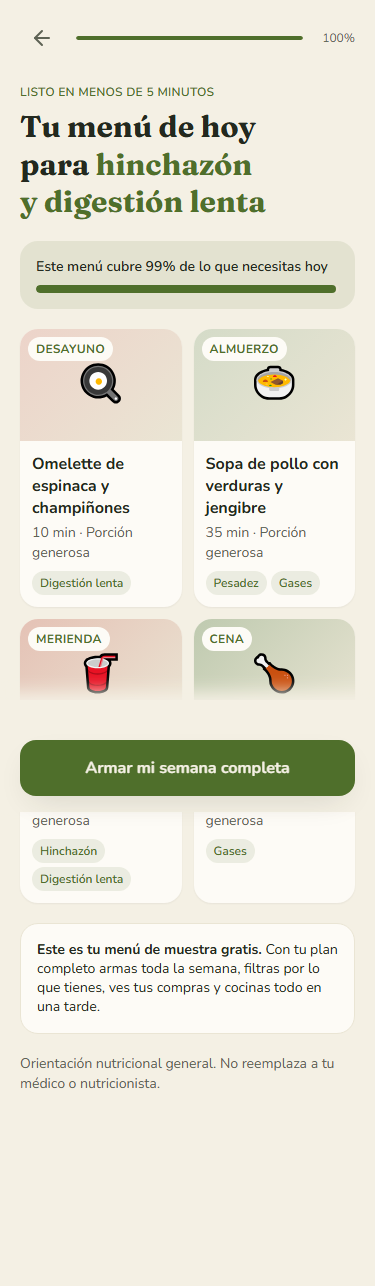
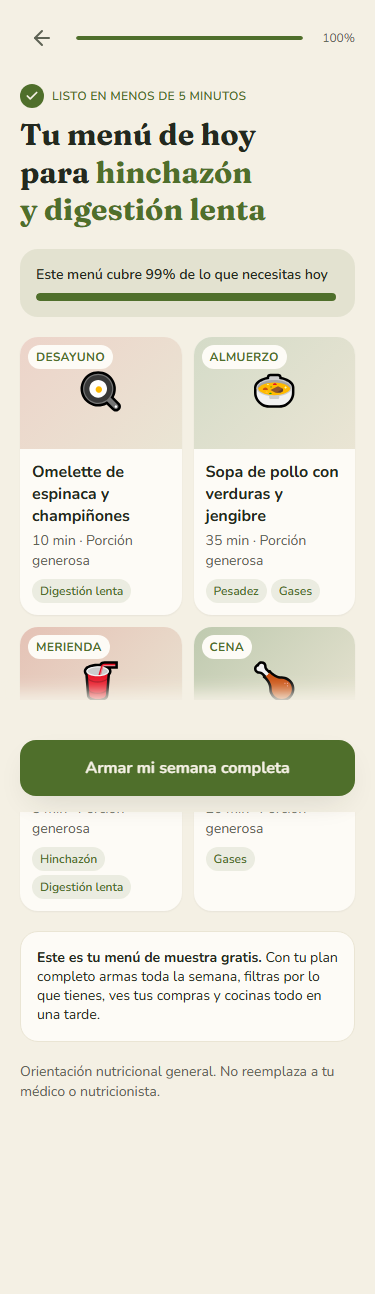
fix: onboarding con progreso guardado, consentimiento resumido y mejoras de campos

diff --git a/components/onboarding/Flow.tsx b/components/onboarding/Flow.tsx
@@ -29,7 +29,7 @@ const AUTO: Paso[] = ['filtro', 'actividad', 'objetivo'];
 
 const SINTOMAS: Sintoma[] = ['Hinchazón', 'Gases', 'Pesadez', 'Digestión lenta'];
 const ACTIVIDADES: { v: Actividad; t: string }[] = [
-  { v: 'sedentaria', t: 'Casi nada: paso el día sentada' },
+  { v: 'sedentaria', t: 'Casi nada: mi día es sedentario' },
   { v: 'ligera', t: 'Ligera: 1 a 3 días por semana' },
   { v: 'moderada', t: 'Moderada: 3 a 5 días por semana' },
   { v: 'alta', t: 'Alta: 6 a 7 días por semana' },
@@ -47,6 +47,30 @@ const CONDICIONES = [
 ];
 
 const EASE = [0.16, 1, 0.3, 1] as const;
+const CLAVE = 'cec-onboarding-v1';
+
+interface Guardado {
+  idx: number;
+  c: { terminos: boolean; salud: boolean; novedades: boolean; analitica: boolean };
+  filtro: 'ok' | 'aplica' | null;
+  sexo: Sexo;
+  edad: string;
+  peso: string;
+  talla: string;
+  actividad: Actividad | null;
+  objetivo: Objetivo | null;
+  sintomas: Sintoma[];
+  ingredientes: string[];
+}
+
+/** Progreso de esta visita (se borra al cerrar la pestaña; nunca sale del navegador). */
+function leerGuardado(): Partial<Guardado> {
+  try {
+    return JSON.parse(window.sessionStorage.getItem(CLAVE) ?? '{}') as Partial<Guardado>;
+  } catch {
+    return {};
+  }
+}
 
 function Resaltada({ children }: { children: ReactNode }) {
   return <span className="text-[var(--accent)]">{children}</span>;
@@ -106,6 +130,9 @@ function Campo({
   error,
   min,
   max,
+  ejemplo,
+  alEnter,
+  autoFocus,
 }: {
   etiqueta: string;
   unidad: string;
@@ -114,6 +141,9 @@ function Campo({
   error?: string;
   min: number;
   max: number;
+  ejemplo: string;
+  alEnter: () => void;
+  autoFocus?: boolean;
 }) {
   const id = `campo-${etiqueta}`;
   return (
@@ -128,6 +158,9 @@ function Campo({
         min={min}
         max={max}
         value={valor}
+        placeholder={ejemplo}
+        autoFocus={autoFocus}
+        onKeyDown={(e) => e.key === 'Enter' && alEnter()}
         onChange={(e) => onChange(e.target.value)}
         aria-invalid={Boolean(error)}
         aria-describedby={error ? `${id}-error` : undefined}
@@ -175,23 +208,24 @@ function porcionTexto(p: number): string {
 
 export function Flow({ fotos = [] }: { fotos?: string[] }) {
   const reducir = useReducedMotion();
-  const [idx, setIdx] = useState(0);
+  const [ini] = useState(leerGuardado);
+  const [idx, setIdx] = useState(Math.min(ini.idx ?? 0, PASOS.length - 1));
   const [dir, setDir] = useState(1);
   const [bloqueo, setBloqueo] = useState(false);
   const [aviso, setAviso] = useState('');
   const paso = PASOS[idx];
 
-  const [c, setC] = useState({ terminos: false, salud: false, novedades: false, analitica: false });
-  const [filtro, setFiltro] = useState<'ok' | 'aplica' | null>(null);
-  const [sexo, setSexo] = useState<Sexo>('mujer');
-  const [edad, setEdad] = useState('');
-  const [peso, setPeso] = useState('');
-  const [talla, setTalla] = useState('');
-  const [actividad, setActividad] = useState<Actividad | null>(null);
-  const [objetivo, setObjetivo] = useState<Objetivo | null>(null);
+  const [c, setC] = useState(ini.c ?? { terminos: false, salud: false, novedades: false, analitica: false });
+  const [filtro, setFiltro] = useState<'ok' | 'aplica' | null>(ini.filtro ?? null);
+  const [sexo, setSexo] = useState<Sexo>(ini.sexo ?? 'mujer');
+  const [edad, setEdad] = useState(ini.edad ?? '');
+  const [peso, setPeso] = useState(ini.peso ?? '');
+  const [talla, setTalla] = useState(ini.talla ?? '');
+  const [actividad, setActividad] = useState<Actividad | null>(ini.actividad ?? null);
+  const [objetivo, setObjetivo] = useState<Objetivo | null>(ini.objetivo ?? null);
   const [intento, setIntento] = useState(false);
-  const [sintomas, setSintomas] = useState<Sintoma[]>([]);
-  const [ingredientes, setIngredientes] = useState<string[]>([]);
+  const [sintomas, setSintomas] = useState<Sintoma[]>(ini.sintomas ?? []);
+  const [ingredientes, setIngredientes] = useState<string[]>(ini.ingredientes ?? []);
 
   const errores = {
     edad: !(+edad >= 18 && +edad <= 99) ? 'Escribe una edad entre 18 y 99 años' : '',
@@ -209,6 +243,15 @@ export function Flow({ fotos = [] }: { fotos?: string[] }) {
     () => (req ? generarMenu(sintomas, ingredientes, req.kcal) : null),
     [req, sintomas, ingredientes],
   );
+
+  useEffect(() => {
+    try {
+      const g: Guardado = { idx, c, filtro, sexo, edad, peso, talla, actividad, objetivo, sintomas, ingredientes };
+      window.sessionStorage.setItem(CLAVE, JSON.stringify(g));
+    } catch {
+      /* sin almacenamiento: el recorrido funciona igual, solo no recuerda al recargar */
+    }
+  }, [idx, c, filtro, sexo, edad, peso, talla, actividad, objetivo, sintomas, ingredientes]);
 
   function ir(delta: number) {
     setDir(delta);
@@ -326,10 +369,19 @@ export function Flow({ fotos = [] }: { fotos?: string[] }) {
                     . Tengo 18 años o más.
                   </Casilla>
                   <Casilla marcada={c.salud} onChange={(v) => setC({ ...c, salud: v })}>
-                    <b>Obligatoria.</b> Autorizo que usen mis datos de salud (sexo, edad, peso, talla, actividad y
-                    síntomas) para calcular mis requerimientos y sugerirme menús. Son datos sensibles, se guardan en
-                    servidores en el extranjero y puedo retirar mi permiso cuando quiera.
+                    <b>Obligatoria.</b> Autorizo el uso de mis datos de salud para calcular mis requerimientos y sugerirme
+                    menús. Puedo retirar mi permiso cuando quiera.
                   </Casilla>
+                  <details className="px-1 text-sm text-[var(--text-secondary)]">
+                    <summary className="min-h-11 cursor-pointer py-2 font-semibold text-[var(--accent)]">
+                      Qué datos son y dónde se guardan
+                    </summary>
+                    <p className="pb-2 leading-snug">
+                      Sexo, edad, peso, talla, actividad física y síntomas digestivos. Son datos sensibles y se guardan en
+                      servidores de proveedores en el extranjero. Los usamos solo para armar tus menús y no los vendemos.
+                    </p>
+                  </details>
+                  <p className="mt-2 text-xs font-semibold uppercase tracking-wide text-[var(--text-secondary)]">Opcionales</p>
                   <Casilla marcada={c.novedades} onChange={(v) => setC({ ...c, novedades: v })}>
                     Quiero recibir novedades y recetas por correo.
                   </Casilla>
@@ -400,9 +452,9 @@ export function Flow({ fotos = [] }: { fotos?: string[] }) {
                     </Opcion>
                   </div>
                 </fieldset>
-                <Campo etiqueta="Edad" unidad="años" valor={edad} onChange={setEdad} min={18} max={99} error={intento ? errores.edad : ''} />
-                <Campo etiqueta="Peso" unidad="kg" valor={peso} onChange={setPeso} min={30} max={250} error={intento ? errores.peso : ''} />
-                <Campo etiqueta="Talla" unidad="cm" valor={talla} onChange={setTalla} min={120} max={220} error={intento ? errores.talla : ''} />
+                <Campo ejemplo="Ej. 34" alEnter={siguiente} autoFocus etiqueta="Edad" unidad="años" valor={edad} onChange={setEdad} min={18} max={99} error={intento ? errores.edad : ''} />
+                <Campo ejemplo="Ej. 62" alEnter={siguiente} etiqueta="Peso" unidad="kg" valor={peso} onChange={setPeso} min={30} max={250} error={intento ? errores.peso : ''} />
+                <Campo ejemplo="Ej. 160" alEnter={siguiente} etiqueta="Talla" unidad="cm" valor={talla} onChange={setTalla} min={120} max={220} error={intento ? errores.talla : ''} />
               </div>
             )}
 
@@ -564,7 +616,15 @@ export function Flow({ fotos = [] }: { fotos?: string[] }) {
             {paso === 'menu' && menu && (
               <div className="flex flex-col gap-5">
                 <div>
-                  <p className="text-xs font-semibold uppercase tracking-wide text-[var(--accent)]">
+                  <p className="flex items-center gap-2 text-xs font-semibold uppercase tracking-wide text-[var(--accent)]">
+                    <motion.span
+                      initial={{ scale: reducir ? 1 : 0.4, opacity: 0 }}
+                      animate={{ scale: 1, opacity: 1 }}
+                      transition={{ type: 'spring', stiffness: 260, damping: 18, delay: 0.15 }}
+                      className="flex size-6 items-center justify-center rounded-full bg-[var(--accent)]"
+                    >
+                      <Check size={14} strokeWidth={3} color="var(--bg)" aria-hidden="true" />
+                    </motion.span>
                     Listo en menos de 5 minutos
                   </p>
                   <h1 className="mt-2 text-balance text-3xl font-bold leading-tight [font-family:var(--font-display)]">

diff --git a/app/onboarding/page.tsx b/app/onboarding/page.tsx
@@ -1,7 +1,7 @@
 import type { Metadata } from 'next';
 import { readdirSync } from 'node:fs';
 import { join } from 'node:path';
-import { Flow } from '@/components/onboarding/Flow';
+import { FlowCliente } from '@/components/onboarding/FlowCliente';
 
 export const metadata: Metadata = {
   title: 'Tu primer menú — Cocina en Calma',
@@ -13,5 +13,5 @@ export default function Onboarding() {
   const fotos = readdirSync(join(process.cwd(), 'public/recetas'))
     .filter((f) => f.endsWith('.jpg'))
     .map((f) => f.replace('.jpg', ''));
-  return <Flow fotos={fotos} />;
+  return <FlowCliente fotos={fotos} />;
 }

diff --git a/components/onboarding/FlowCliente.tsx b/components/onboarding/FlowCliente.tsx
@@ -1,0 +1,10 @@
+'use client';
+
+import dynamic from 'next/dynamic';
+
+// El recorrido lee su progreso de sessionStorage al nacer, así que se dibuja solo en el navegador.
+const Flow = dynamic(() => import('./Flow').then((m) => m.Flow), { ssr: false });
+
+export function FlowCliente({ fotos }: { fotos: string[] }) {
+  return <Flow fotos={fotos} />;
+}

diff --git a/docs/revisiones/onboarding-veredicto.md b/docs/revisiones/onboarding-veredicto.md
@@ -1,62 +1,56 @@
-# VEREDICTO revisor-visual — onboarding
-Fecha: 2026-10-31 12:00
+# VEREDICTO revisor-visual — onboarding (2ª pasada, v2 de 9 pasos)
+Fecha: 2026-10-31 15:00
 Screenshot: docs/revisiones/onboarding-375.png
-Usabilidad: 24/40
-Craft: 13/20
-Copy: 13/20
-Copy (si vende): 13/20
+Usabilidad: 29/40
+Craft: 14/20
+Copy: 14/20
+Copy (si vende): 14/20
 Fidelidad (si hubo referencia): FIEL
 Veredicto: NECESITA CORRECCIÓN
-(Equivale a NO LISTA: usabilidad <36, craft <16, copy <16.)
+(Equivale a NO LISTA: usabilidad <36, craft <16, copy <16. Mejora clara frente a 24/13/13, pero no alcanza los umbrales.)
 
-Detalle usabilidad: h1:3 h2:2 h3:2 h4:3 h5:2 h6:3 h7:2 h8:2 h9:2 h10:3
-Detalle craft: jerarquía:3 profundidad:3 identidad:2 movimiento:2 encaje:3
-Detalle copy: idea:3 especificidad:2 emoción:3 oferta:2 acción:3
+Detalle usabilidad: h1:3 h2:3 h3:3 h4:3 h5:3 h6:3 h7:2 h8:3 h9:3 h10:3
+Detalle craft: jerarquía:3 profundidad:3 identidad:2 movimiento:3 encaje:3
+Detalle copy: idea:3 especificidad:2 emoción:3 oferta:2 acción:4 (sin ficha de avatar revisada en detalle; oferta/precio corresponden al paywall)
 
-Gate de carga cognitiva (fallas: 4 -> sobrecarga crítica en paso 2 y 5):
-- FALLA: paso 2 pide 6 datos + 4 niveles de actividad + 3 objetivos + caja de 7 líneas en una pantalla (por decisión de la usuaria, pero sigue siendo >5-7 campos).
-- FALLA: paso 5 muestra ~30 chips (decisión de >4 opciones); los últimos quedan cortados bajo el CTA.
-- FALLA: paso 1, bloque de consentimiento de 9 líneas (>3-4 líneas por bloque) y 4 casillas.
-- FALLA: paso 3 es pantalla pasiva, sin input; el "100%" no se gana su lugar.
+## Gate de carga cognitiva (1 falla: ya no es sobrecarga)
+- OK: una decisión por paso, ≤4 opciones (filtro 2, actividad 4, objetivo 3, síntomas 4), datos en 4 campos apilados.
+- OK: el "qué sigue" es obvio; ningún elemento interactivo muerto.
+- FALLA: consentimiento con 4 casillas y un bloque obligatorio de ~6 líneas (>3-4 líneas).
+- Borde: 18 chips en el paso 8 (>4 opciones; es multiselección de tarea y no desborda, pero sin agrupar).
 
 ## Fidelidad contra la referencia (0 de 6 fallos: FIEL)
-Modo claro cálido OK · acento oliva OK · display serif suave (Fraunces) + Nunito OK · radios cards/botones/chips dentro de ±4px OK · sombras sutiles OK · densidad: paso 2 es más denso que la referencia (observación, no fallo).
+Modo claro cálido, acento oliva, display Fraunces + Nunito, radios, sombras suaves y densidad coinciden con la referencia. Sin desvíos contra FICHA-ARTE. Error con --error de la ficha (corregido).
 
-## Estados
-- Vacío: CTA deshabilitado en pasos 1, 4, 5 (ver S1). Paso 2 sin placeholders ni valores por defecto.
-- Carga: no hay (cálculo local instantáneo; aceptable).
-- Éxito: paso 6 menú con barra de cobertura; sin celebración.
-- Error: solo de campo y solo tras tocar el CTA; mensajes en columnas de ~100px (se rompen en 3-4 líneas). Color de error usa --accent-2 (terracota) y no el semántico #B0432F de la ficha.
-- Deshabilitado: opacity-60 sin explicación de por qué.
-- Sin conexión: no aplica al cálculo, pero el menú/paywall sí lo necesitará; no hay estado.
+## Qué se corrigió de la 1ª pasada (verificado en código y capturas)
+- S1-1 CTA nace apagado: CORREGIDO (Flow.tsx:644 siempre vivo, aviso rojo en :632, whileTap).
+- S1-2 enlaces: PARCIAL. Ahora target=_blank y apuntan a aviso de salud + privacidad (:319-323); la persistencia SIGUE sin existir (solo useState).
+- S1-3 paso 2 sobrecargado y advertencia al final: CORREGIDO (filtro antes de datos, pasos separados, auto-avance).
+- S1-4 "100% cubierto" vacío: CORREGIDO (reparto por comida, números en "Ver mis números").
+- S2-5 errores en 3 columnas: CORREGIDO (campos apilados). Siguen siendo largos pero caben.
+- S2-6 jerga: CASI. "Ver mis números", "porción generosa" OK; persisten "kcal", "Energía/Proteína/Carbohidratos" dentro del desplegable (aceptable al ser opcional).
+- S2-7 30 chips: MEJORADO a 18, sin agrupar ni "ver más".
+- S2-8 emojis como foto: SIGUE (FotoReceta = color plano + emoji; en captura se ve de nivel placeholder: sartén, vaso, muslo). Aceptado como abierto documentado, pero impide LISTA en la pantalla de mayor valor percibido.
+- S2-9 consentimiento largo: PARCIAL (menos texto, pero la 2ª casilla sigue en ~6 líneas y las opcionales no se separan bajo "Opcional").
+- S3-10 movimiento: MEJORADO (conteo animado de cobertura, barras que se dibujan en el paso 6, stagger en el menú, transición entre pasos, whileTap). Sigue sin celebración al revelar el menú y sin stagger de entrada en los demás pasos.
+- S3-11/12/13 : "100%" quebrado eliminado; error con token correcto; botón atrás invisible en paso 1 sigue dejando hueco (menor).
 
-## Hallazgos
+## Hallazgos pendientes por severidad
 
 ### S1 — Críticos
-1. components/onboarding/Flow.tsx:533 (y :182) — CTA héroe nace deshabilitado al 60% de opacidad (consent, síntomas, ingredientes): incumple "CTA vivo". Fix: dejarlo habilitado y, al tocarlo sin cumplir, mostrar hint ("Marca las dos casillas obligatorias", "Elige al menos 1 síntoma", "Te faltan 2").
-2. Flow.tsx:268 y :272 — los enlaces de términos/privacidad navegan fuera del recorrido y los datos viven solo en memoria (:153-162): la usuaria pierde todo el progreso. Fix: target="_blank" rel="noopener" (o abrir en hoja) y persistir el estado en sessionStorage. Además "términos de uso" apunta a /aviso-salud (aviso de salud, no términos).
-3. Flow.tsx:297-348 — paso 2 con 6 campos + 7 opciones en una sola pantalla y la advertencia médica (embarazo, lactancia, diabetes, ERC, TCA) al final, bajo el scroll y después del CTA. Fix: mostrar la advertencia/casilla "ninguna de estas condiciones me aplica" ANTES de pedir los datos (también es riesgo legal), y dividir en 2 sub-pasos (cuerpo / actividad+objetivo) o al menos agrupar con encabezados y valores por defecto.
-4. Flow.tsx:360 — "100% cubierto con tus comidas" antes de elegir ninguna comida es un dato vacío, y luego el menú dice "Cubre 99%" (paso 6, :465): incoherencia que erosiona confianza. Fix: mostrar un dato real (ej. "Tu día pide ~1840 kcal" en lenguaje casero) o quitar la tarjeta; hacer coherentes los porcentajes.
+1. (viene de 1ª, S1-2) Flow.tsx:178-194 — todo el estado vive en memoria: recargar o volver desde /paywall borra los 9 pasos. Fix: persistir en sessionStorage y restaurar al montar.
 
 ### S2 — Altos
-5. Flow.tsx:316-319 — errores de campo en rejilla de 3 columnas: mensajes largos quedan en 4 líneas angostas. Fix: error corto ("18 a 99") o campos en 1 columna/2+1; ponerle placeholder y unidad.
-6. Flow.tsx:372, :489, :263/:279 — jerga: "Ver detalle técnico", "porción ×1.25", "requerimientos", "meal prep" (:507), "kcal" visible contra la promesa "sin contar calorías" (FICHA-ARTE). Fix: "Ver mis números", "porción y cuarto", "lo que necesita tu cuerpo", "guía de preparación semanal".
-7. Flow.tsx:424 — ~30 chips sin agrupar ni buscador; los últimos (Tofu, Papaya) quedan tapados por el CTA fijo. Fix: mostrar 12 más usados + "Ver más", o agrupar (proteínas / verduras / granos).
-8. components/onboarding/FotoReceta.tsx (usado en Flow.tsx:485) — "foto" = color plano + emoji grande (vaso rojo, muslo): son emojis como ícono, vetados, y es el momento de mayor valor percibido (menú). Fix: fotos reales de public/recetas/ antes de lanzar, o ilustración SVG de serie; no declarar LISTA con emojis.
-9. Flow.tsx:260-293 — consentimiento: 4 casillas con bloque legal de 9 líneas en tamaño 14px; "analítica" y "novedades" opcionales compiten con las obligatorias. Fix: resumir el texto visible (3 líneas) con "Leer completo" y separar opcionales bajo subtítulo "Opcional".
+2. (viene de 1ª, S2-8) components/onboarding/FotoReceta.tsx — "fotos" = fondo de color + emoji en el menú (paso 9). Fix: fotos reales de public/recetas/ o ilustración SVG de serie antes de lanzar; hasta entonces no LISTA.
+3. (viene de 1ª, S2-9) Flow.tsx:328-338 — casilla de salud de ~6 líneas y 2 opcionales mezcladas con las obligatorias. Fix: texto de 3 líneas + "Leer completo", y opcionales bajo subtítulo "Opcional".
+4. (nuevo) Flow.tsx:597 / paso 9 — el cierre promete "plan completo" pero no hay prueba ni número verificable (cuántas recetas, cuánto tiempo ahorra), y la cobertura "99%" no se explica. Fix: una línea concreta ("Más de N recetas…") trazada a FICHA-AVATAR y a datos reales.
 
 ### S3 — Medios
-10. Movimiento (Flow.tsx:233-239, :364, :468): sin conteo animado de números héroe (el 100% y 1840 aparecen estáticos), sin celebración al llegar al menú, el CTA del paso 6 (:521) es un <a> sin whileTap, stagger solo en el menú. Reduced-motion sí está manejado (useReducedMotion). Fix: conteo 0→n en el paso 3, whileTap en el CTA final, stagger de entrada en cada paso, micro-celebración suave al revelar el menú.
-11. Flow.tsx:360-361 — "100%" y su texto "cubierto con tus comidas" sobre la misma línea base quiebran y "comidas" cae a la 2ª línea desalineado. Fix: apilar el número y la etiqueta.
-12. Paso 1, botón atrás invisible (disabled:opacity-0, :221) deja un hueco; Flow.tsx:285-288 todo el onboarding usa 8+ tamaños de texto (xs/sm/base/lg/3xl/4xl): limitar a 3-4.
-13. Flow.tsx:142 y :139 — error con --accent-2 en vez del rojo semántico #B0432F de la ficha; contraste del terracota sobre crema a revisar (~4:1).
-14. Identidad: pese a seguir fielmente la referencia (contrato), no hay dispositivo ownable visible aparte de la palabra en acento; paleta crema+oliva queda cerca del veto "papel cálido + tinta verde" (se mitiga: fuentes Fraunces/Nunito, y viene de la referencia del usuario, no del ejemplo canónico). Sugerencia: un detalle firma (ilustración de serie, sello de hoja en progreso, tratamiento de foto).
-15. Flow.tsx:520-526 — destino /paywall es marcador; no hay backend ni persistencia: si la usuaria vuelve atrás desde el paywall pierde menú y datos.
-
-### Copy (trazabilidad parcial; FICHA-AVATAR no verificada en detalle)
-- Fuerte: "Cuéntanos sin pena... aquí no hay juicios" (emoción), "Marca 3 que tengas en casa" (acción clara), CTAs por beneficio.
-- Débil: sin prueba ni número verificable (el único número, 100%, es vacío); oferta/garantía/precio no aparecen aquí (corresponde al paywall); CTA "Armar mi semana completa" no está en 1ª persona del beneficio ("Armar MI semana" sí; ok); el paso 6 vende la semana pero no dice cuánto cuesta ni la garantía antes del salto.
-- Titulares con énfasis en acento: cumple (una palabra clave por título).
+5. (nuevo) Flow.tsx:120-137 — campos de edad/peso/talla sin placeholder, sin autoenfoque ni Enter para avanzar; h7 queda en 2. Fix: placeholder de ejemplo, autoFocus en el primero y onKeyDown Enter = siguiente.
+6. (nuevo) Pasos 4 y 5 (actividad, objetivo) — mitad inferior de la pantalla vacía y sin dato de apoyo; el paso 6 es pasivo. Fix: centrar verticalmente o añadir una línea de contexto por opción.
+7. (viene de 1ª, S3-14) Identidad: sin dispositivo ownable más allá de la palabra en acento y la paleta crema+oliva (cerca del veto "papel cálido + tinta verde", mitigado por venir de la referencia del usuario y usar Fraunces/Nunito). Fix: un detalle firma (sello de hoja en el progreso, ilustración de serie, tratamiento de foto).
+8. (nuevo) "Casi nada: paso el día sentada" asume género femenino aunque se ofrece "Hombre". Fix: "paso el día sentado/a" o redactar neutro ("Casi nada: mucho tiempo sentado/a").
+9. (viene de 1ª, S3-10) Sin celebración suave al revelar el primer menú (hito real).
 
 ## Verificado en código
-Heurística 3: hay "volver" por paso (Flow.tsx:216) y no hay destructivas; falta confirmación al abandonar el recorrido y persistencia. Heurística 7: defaults en actividad/objetivo/sexo (OK), sin default ni autoenfoque en campos numéricos, sin Enter para avanzar. aria-live presente en el contador de ingredientes (:445) y progressbar con aria.
+H3: hay "volver" por paso, enlaces legales en pestaña nueva, salida clara si el filtro aplica (Volver al inicio); no hay acciones destructivas; falta persistencia. H7: defaults en sexo; sin Enter ni autoenfoque. aria-live en aviso y contador de ingredientes; progressbar con aria; reduced-motion respetado en todas las animaciones. CTA vivo: contraste oliva/crema alto, h-14 (56px), ancho completo, whileTap, nunca disabled.

diff --git a/ESTADO.md b/ESTADO.md
@@ -85,7 +85,7 @@ Big Idea: "Desinflama tu abdomen y recupera tu ropa favorita sin volver a pesar 
 - NO construir: red social/foro, pedidos a supermercados, escáner de códigos, chat con nutricionista en vivo, seguimiento de agua
 
 ## Problemas conocidos ⚠
-- veredicto onboarding: 1ª revisión NECESITA CORRECCIÓN (24/40 · 13/20 · 13/20). Corregido en v2: 9 pasos de una decisión (filtro de seguridad antes de pedir datos, datos, actividad, objetivo), botón siempre habilitado con aviso, elección única con auto-avance, enlaces legales en pestaña nueva, pantalla de requerimientos con reparto del día (sin "100%" vacío), conteo animado, error con token --error, menos jerga. 2ª revisión en curso (docs/revisiones/onboarding-veredicto.md). Abiertos: fotos reales (hoy color + emoji), validación de la nutricionista, consentimiento en servidor.
+- veredicto onboarding: 2ª revisión NECESITA CORRECCIÓN (29/40 · 14/20 · 14/20; 1ª fue 24/13/13), fidelidad FIEL. Corregido después: progreso en sessionStorage (sobrevive a recargar), consentimiento resumido con detalle plegable, placeholders/autoenfoque/Enter, texto neutro de género, celebración suave del menú. BLOQUEO para LISTA: fotos reales de comida (hoy color + emoji; la usuaria las entregará) — al llegar las 8 fotos de la Etapa 1, relanzar revisor-visual. Abiertos: validación de la nutricionista, consentimiento en servidor.
 - veredicto landing: ver docs/revisiones/landing-veredicto.md. Hallazgos abiertos: fotos de comida reales (hoy son emojis sobre degradado en hero y carrusel), cifra real para el ancla de la oferta (consulta de nutricionista), capturas reales de la app al cerrarla, chip del mecanismo parece botón.
 - audit-conversion.sh: 13 críticos mayormente falsos positivos por escanear comentarios/strings del propio kit (voseo "animate", hairlines y gradientes que sí existen en ui.tsx/Hero.tsx); se revisan con el revisor-visual.
 - Legal (47): borradores en docs/legal/ (política de privacidad + consentimiento y deslinde). Responsable: Conexión Digital, Ecuador (LOPDP; autoridad: Superintendencia de Protección de Datos Personales — verificar con abogado). Pendientes: correo de contacto propio, ciudad/RUC, términos y política de reembolso, pantalla de consentimiento en la app, revisión de abogado local. Datos de salud = sensibles.

diff --git a/docs/legal/politica-de-privacidad.md b/docs/legal/politica-de-privacidad.md
@@ -34,6 +34,8 @@ Podemos revelar datos si una autoridad competente lo exige conforme a la ley.
 Algunos de estos proveedores almacenan o procesan datos fuera de tu país, incluido Estados Unidos. Al aceptar esta política y la autorización de datos de salud, consientes esas transferencias, que se hacen bajo los términos y medidas de seguridad de cada proveedor. Hoy la app no envía tus datos a servicios de inteligencia artificial de terceros; si eso cambia, te avisaremos y pediremos tu autorización.
 
 ## 6. Cuánto tiempo los conservamos
+Mientras completas el recorrido de inicio, tu progreso se guarda de forma temporal en tu propio navegador (no en nuestros servidores) y se borra al cerrar la pestaña.
+
 Mientras tu cuenta esté activa. Si eliminas tu cuenta, borramos tus datos personales y de salud de nuestras bases en un máximo de [PENDIENTE: 30] días, salvo lo que la ley nos obligue a conservar (por ejemplo, registros de la compra, que también guarda Hotmart).
 
 ## 7. Tus derechos
